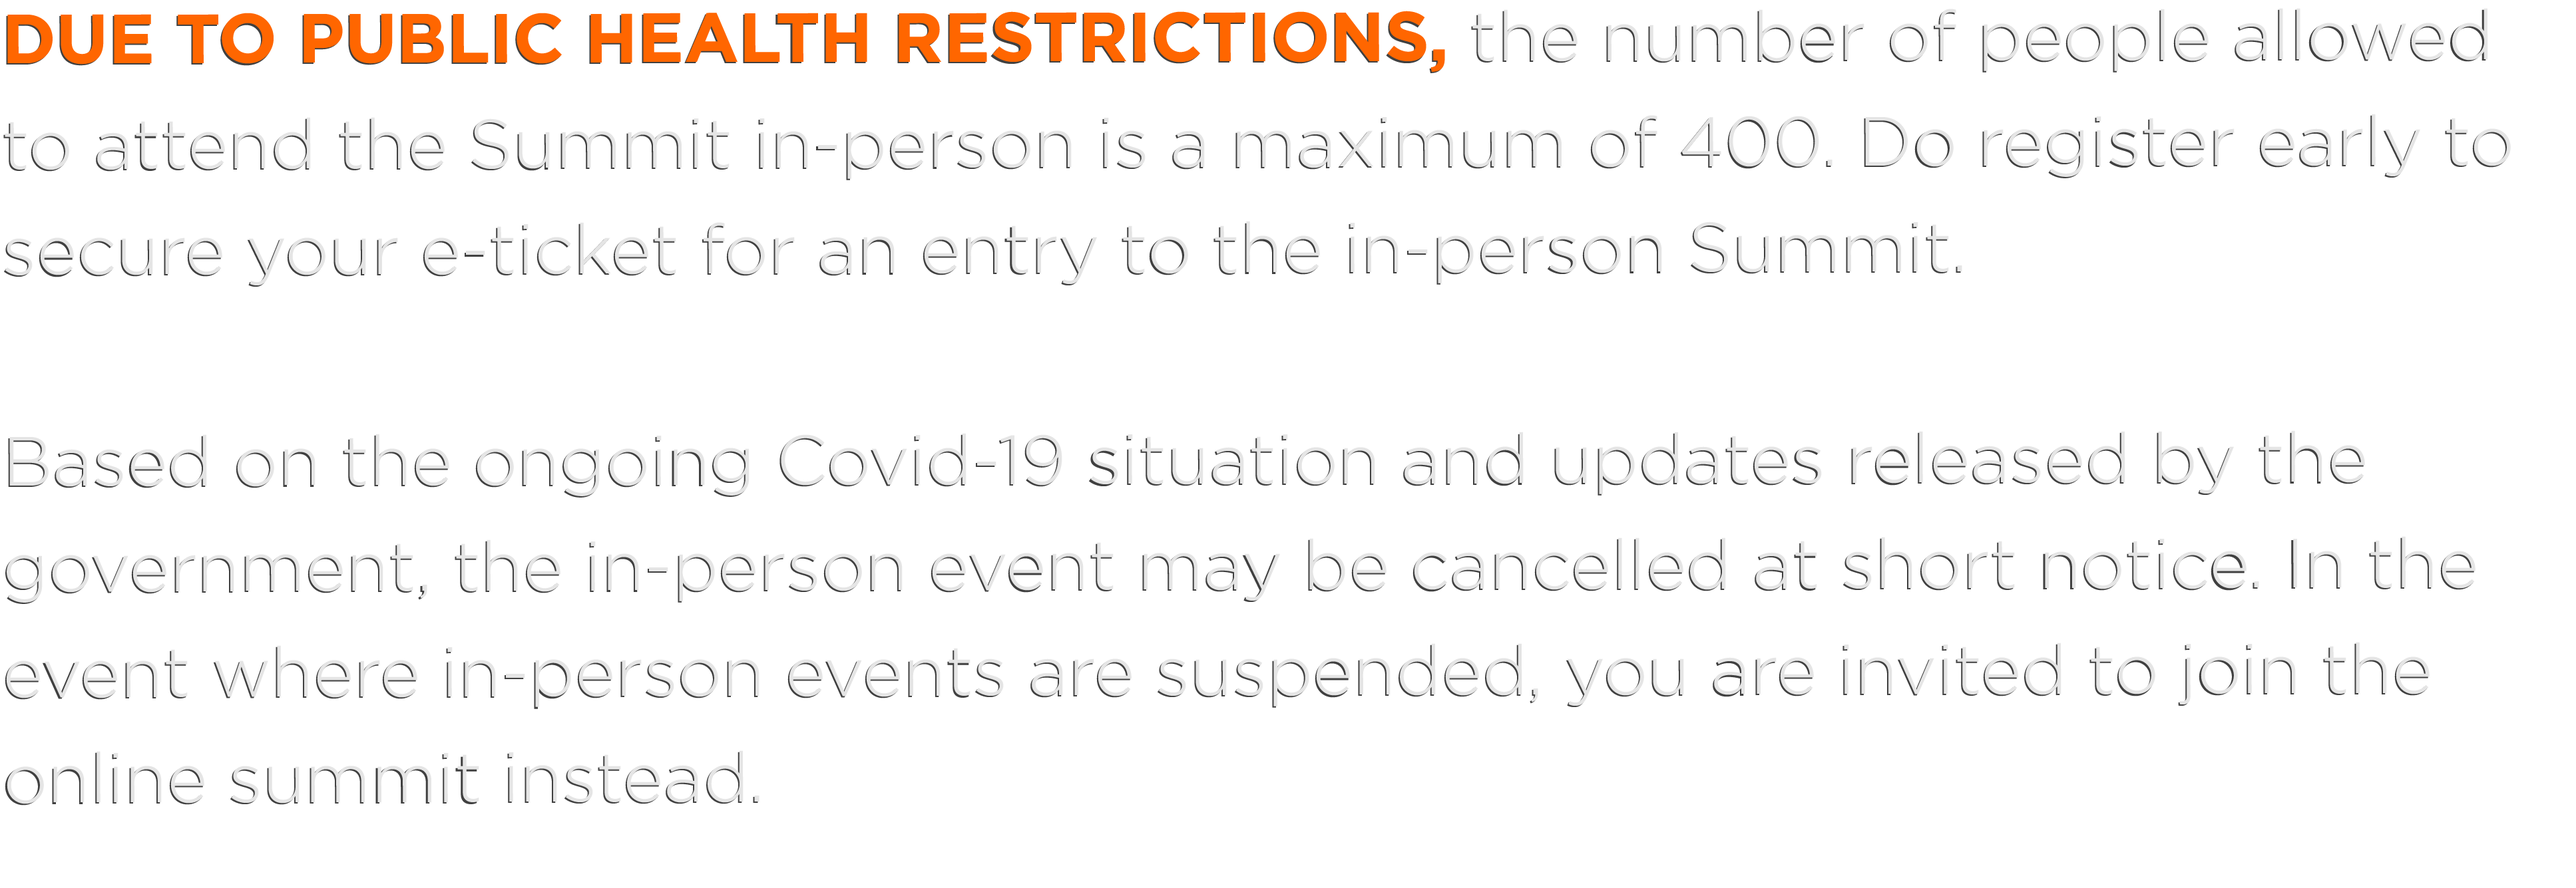
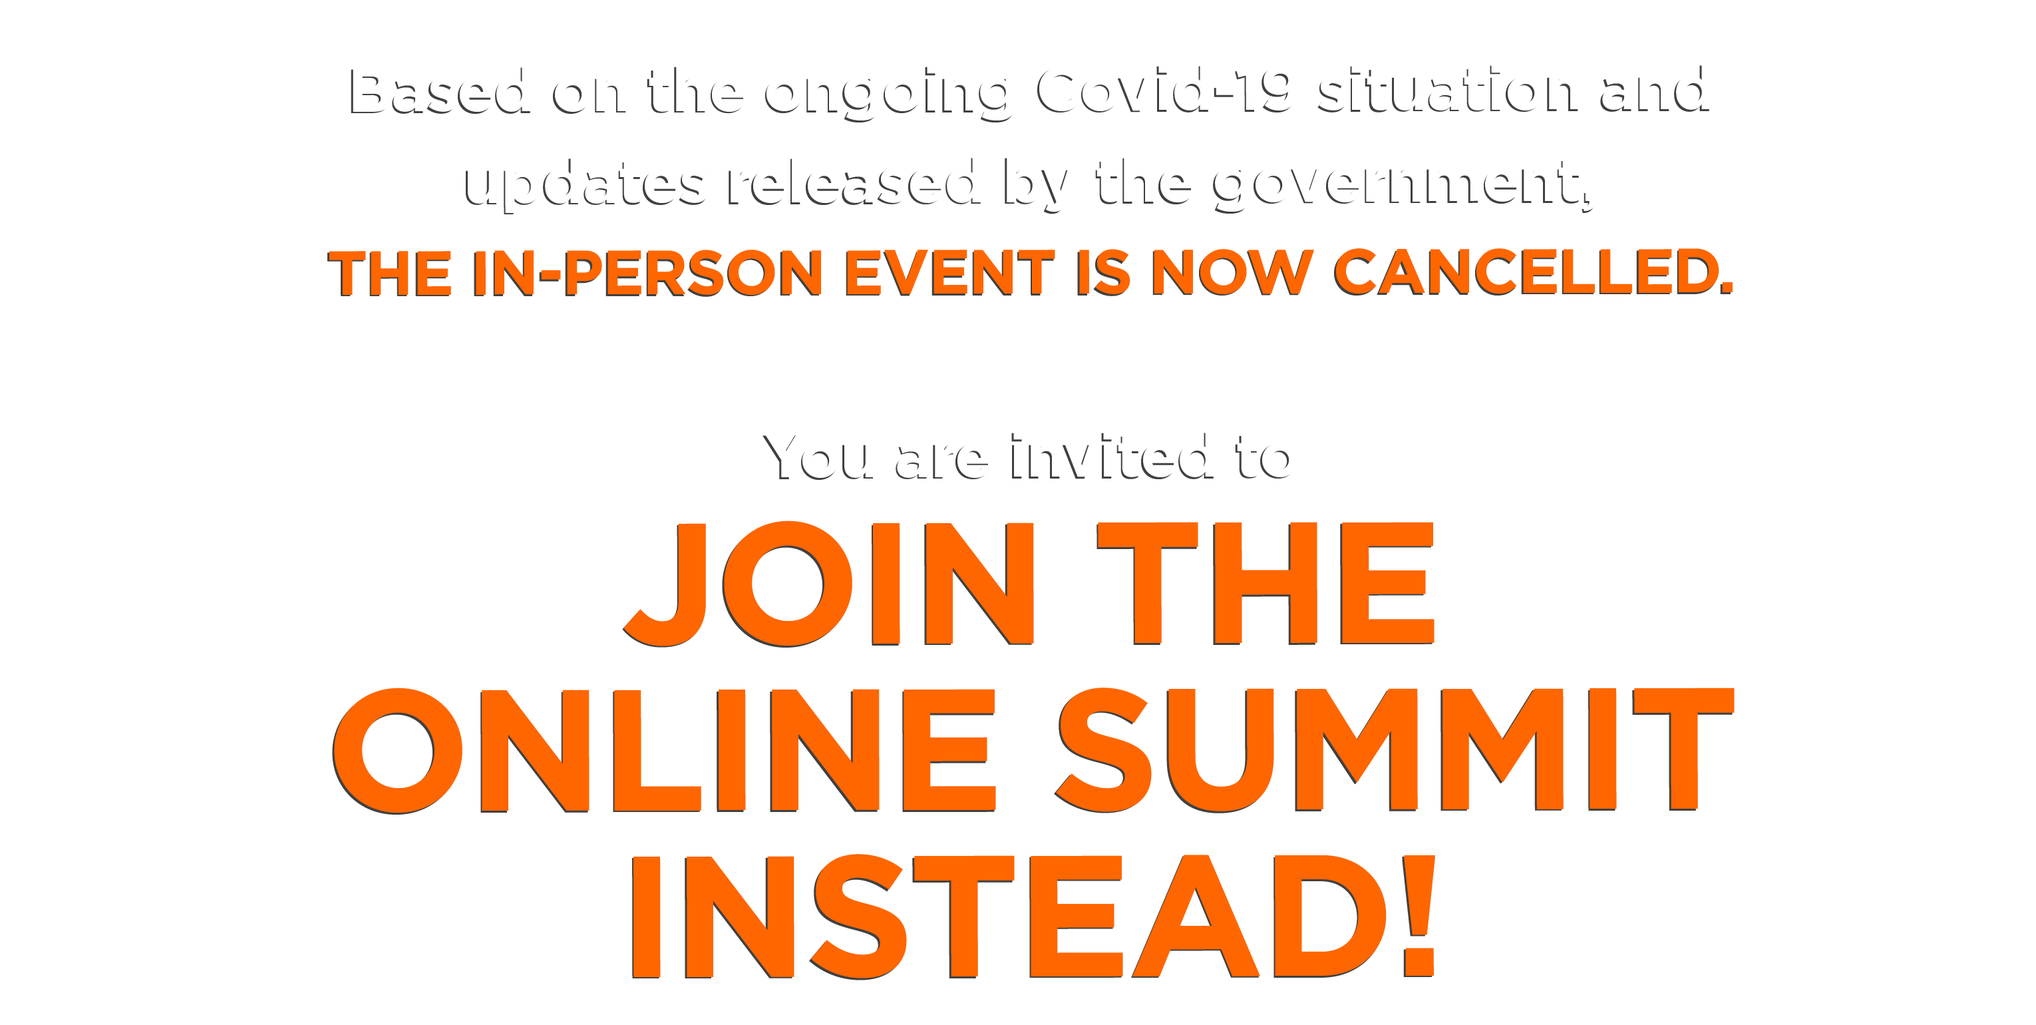
Remove Physical Signup

diff --git a/src/components/view/first.js b/src/components/view/first.js
@@ -35,9 +35,7 @@ function First() {
                             <img src={require('../images/assets/iyls/schedule.png')}/>
                         </RB.Col>
                         <RB.Col className="rightSchedule">
-                            <img src={require('../images/assets/iyls/scheduleTime.png')} className="scheduleTime"/> <br/>
-                            <FormContainer /><br/>
-                            <img src={require('../images/assets/iyls/registrationClose.png')}  className="registrationCloses"/><br/>
+                            <img src={require('../images/assets/iyls/scheduleTime2.png')}  className="scheduleTime"/><br/>
                             <img src={require('../images/assets/iyls/physicalText.png')}  className="scheduleOnline"/><br/>
                             <FormContainer2 /><br/>
                             <img src={require('../images/assets/iyls/registrationClose.png')}  className="registrationCloses"/><br/>
@@ -124,12 +122,10 @@ function First() {
                 </div>
 
                 <div className="scheduleContainer text-center">
-                    <img src={require('../images/assets/iyls/scheduleTime.png')} className="scheduleTime"/> <br/>
-                    <FormContainer /><br/>
-                    <img src={require('../images/assets/iyls/registrationClose.png')}  className="registrationCloses"/><br/>
-                    <img src={require('../images/assets/iyls/physicalText.png')}  className="scheduleOnline"/><br/>
+                    <img src={require('../images/assets/iyls/scheduleTime2.png')}  className="scheduleTime"/>
+                    <img src={require('../images/assets/iyls/physicalText.png')}  className="scheduleOnline"/>
                     <FormContainer2 /><br/>
-                    <img src={require('../images/assets/iyls/registrationClose.png')}  className="registrationCloses"/><br/>
+                    <img src={require('../images/assets/iyls/registrationClose.png')}  className="registrationCloses"/>
                     <img src={require('../images/assets/iyls/schedule.png')} className="scheduleTime"/>
                 </div>
 

diff --git a/src/components/styles/igniteYouth.css b/src/components/styles/igniteYouth.css
@@ -59,10 +59,11 @@
         padding-top: 10vh;
         width: 50%;
         height: auto;
+        display: block;
+        margin: auto;
     }
 
     .attendInPerson {
-        margin-top: 5vh;
         width: 50%;
         height: auto;
         cursor: pointer;
@@ -73,6 +74,8 @@
         width: 50%;
         height: auto;
         cursor: pointer;
+        display: block;
+        margin: auto;
     }
 
     .registrationCloses {
@@ -260,6 +263,13 @@
     }
 
     .attendInPerson {
+        margin-top: 5vh;
+        width: 50%;
+        height: auto;
+        cursor: pointer;
+    }
+
+    .scheduleTime {
         margin-top: 5vh;
         width: 50%;
         height: auto;

diff --git a/public/index.html b/public/index.html
@@ -7,7 +7,7 @@
     <meta name="theme-color" content="#000000" />
     <meta
       name="description"
-      content="Web site created using create-react-app"
+      content="Ignite Youth Leadership Summit"
     />
     <link rel="apple-touch-icon" href="%PUBLIC_URL%/logo192.png" />
     <!--
